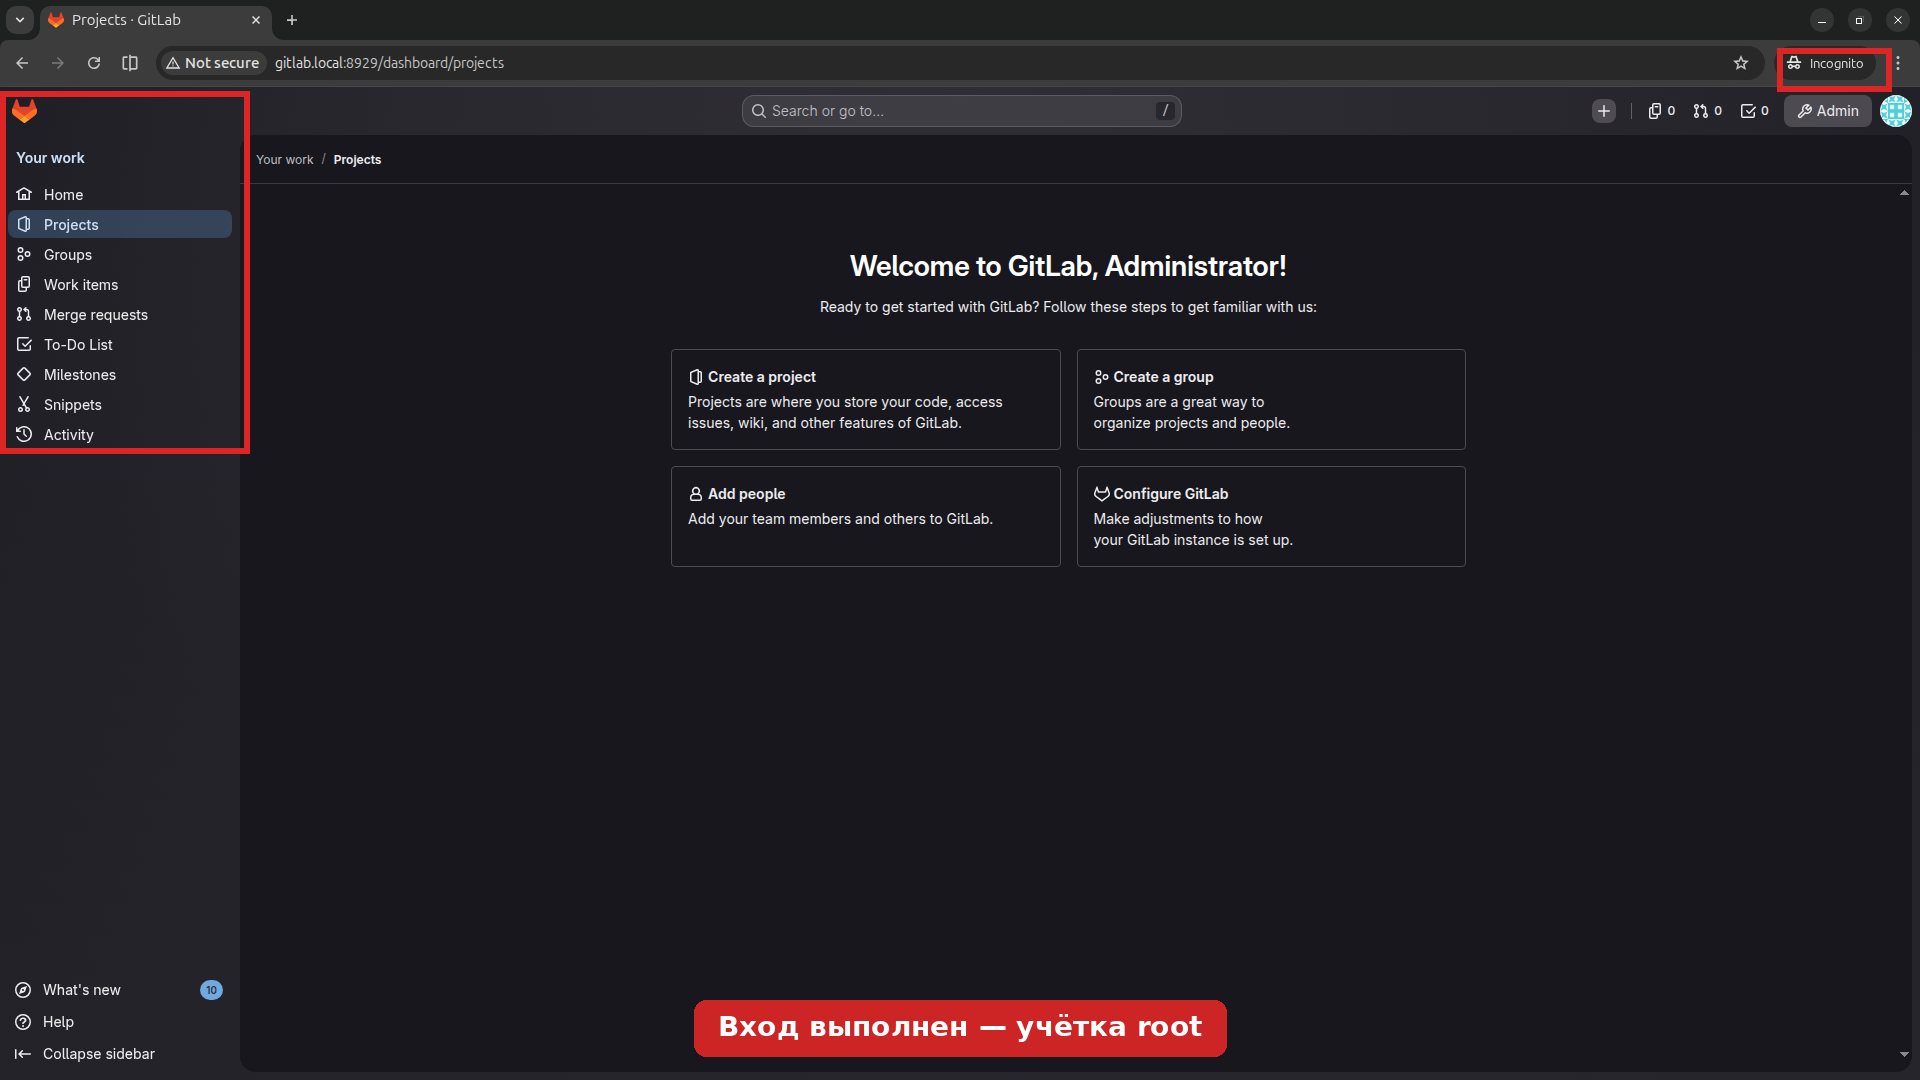
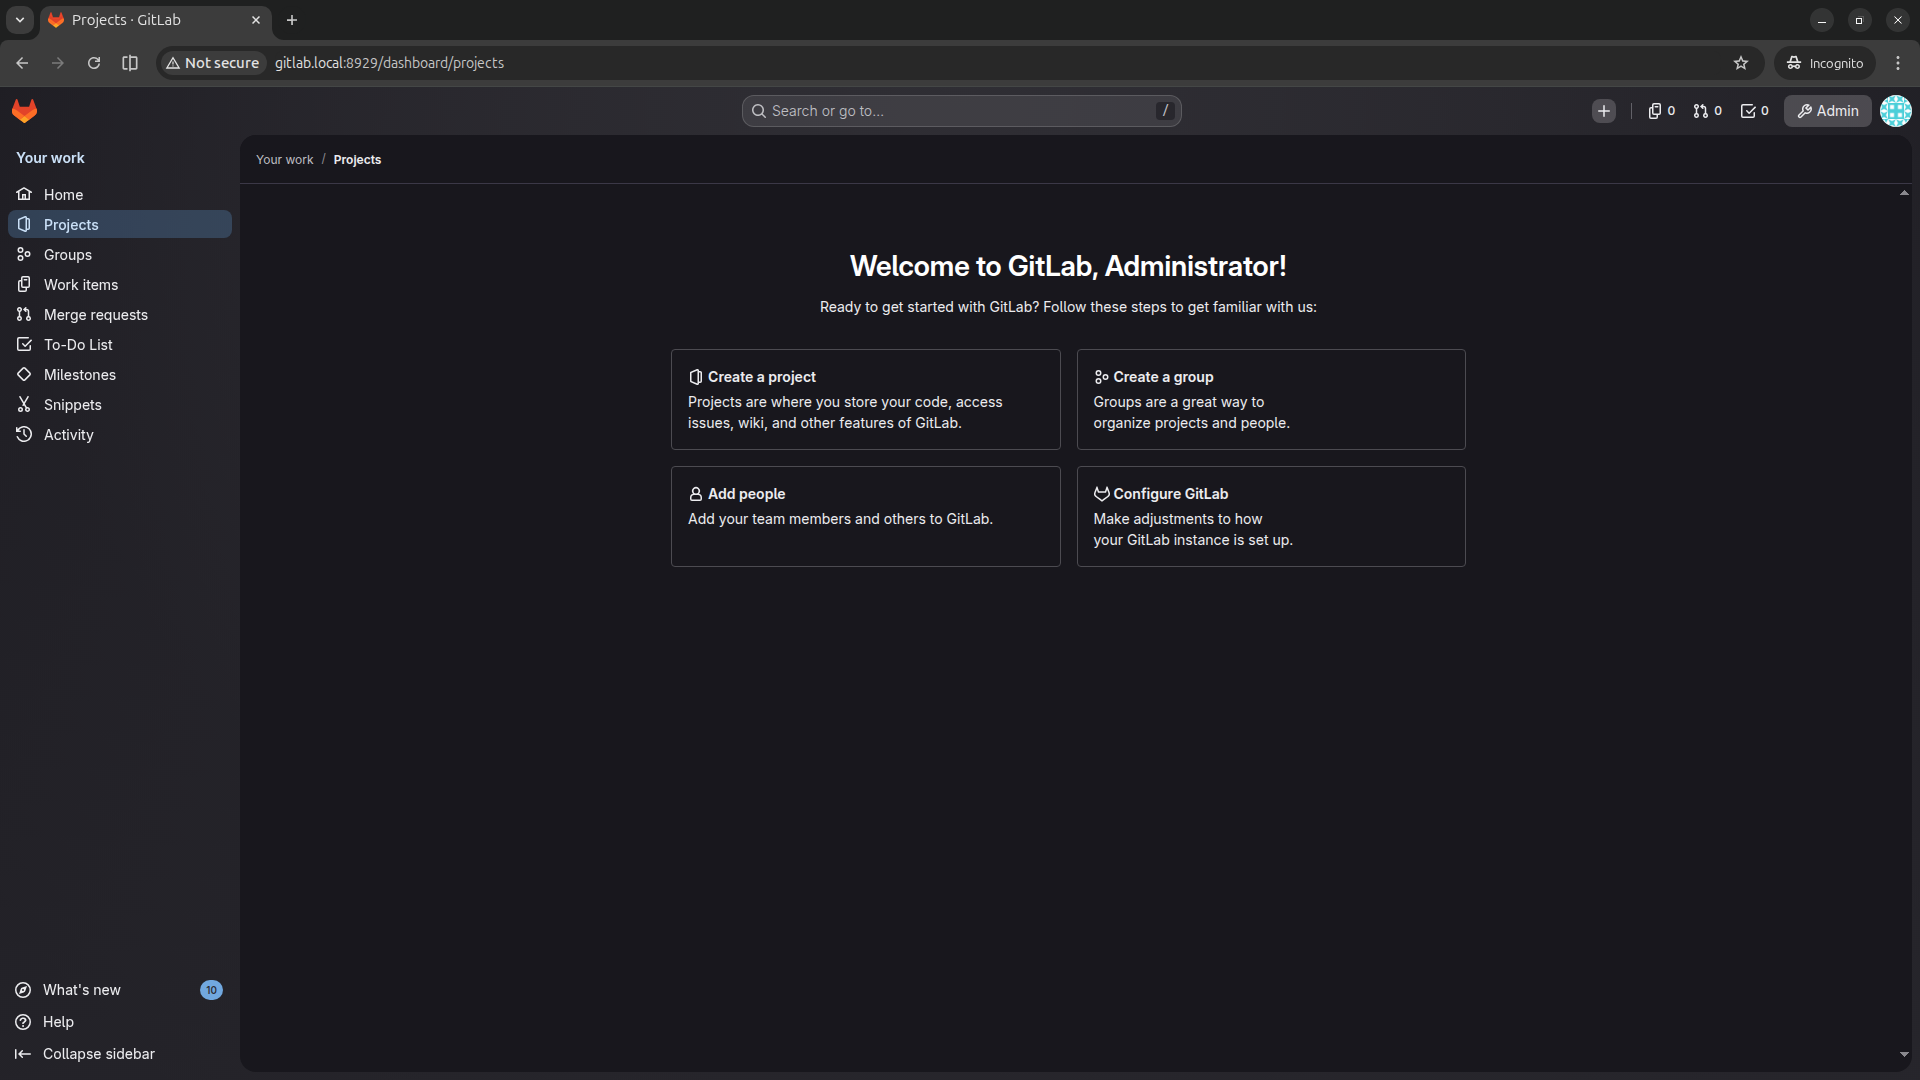
lab2: убрать Pillow-аннотации, оставить сырые скрины + текстовые подсказки
Координаты рамок ложились криво, отвлекали от сути. Лучше — сырой скриншот
+ под ним короткий блок «Обратите внимание: …» с описанием куда смотреть.
annotate.py заменён на rename.py — простое переименование исходников
(timestamped → SHOTLIST имена), без рисования.

diff --git a/lab2/screenshots/rename.py b/lab2/screenshots/rename.py
@@ -1,0 +1,43 @@
+"""Переименование сырых скриншотов в имена SHOTLIST.
+
+Запуск:
+    python rename.py
+
+Просто копирует исходники под целевыми именами (без аннотаций — описания
+«куда смотреть» лежат в README рядом с каждой картинкой).
+"""
+import shutil
+from pathlib import Path
+
+ROOT = Path(__file__).parent
+
+MAPPING = {
+    "Screenshot from 2026-04-28 18-55-01.png": "01-gitlab-login-page.png",
+    "Screenshot from 2026-04-28 18-56-49.png": "02-gitlab-main-page.png",
+    "Screenshot from 2026-04-28 18-59-26.png": "03-new-project-form.png",
+    "Screenshot from 2026-04-28 18-59-41.png": "04-empty-project-page.png",
+    "Screenshot from 2026-04-28 19-08-19.png": "05-settings-cicd-runners.png",
+    "Screenshot from 2026-04-28 19-10-40.png": "06-runner-token.png",
+    "Screenshot from 2026-04-28 19-12-32.png": "07-runner-online.png",
+    "Screenshot from 2026-04-28 19-26-40.png": "09-pipeline-all-green.png",
+    "Screenshot from 2026-04-28 19-27-13.png": "10-test-job-log.png",
+    "Screenshot from 2026-04-28 19-29-27.png": "11-artifacts-browse.png",
+    "Screenshot from 2026-04-28 19-32-44.png": "12-lint-failed-pipeline.png",
+    "Screenshot from 2026-04-28 19-32-53.png": "12b-lint-job-log.png",
+}
+
+
+def main():
+    for src, dst in MAPPING.items():
+        src_p = ROOT / src
+        dst_p = ROOT / dst
+        if not src_p.exists():
+            print(f"  ! {src} — отсутствует, пропускаю")
+            continue
+        shutil.copy2(src_p, dst_p)
+        print(f"  ✓ {dst}")
+    print("Готово.")
+
+
+if __name__ == "__main__":
+    main()
